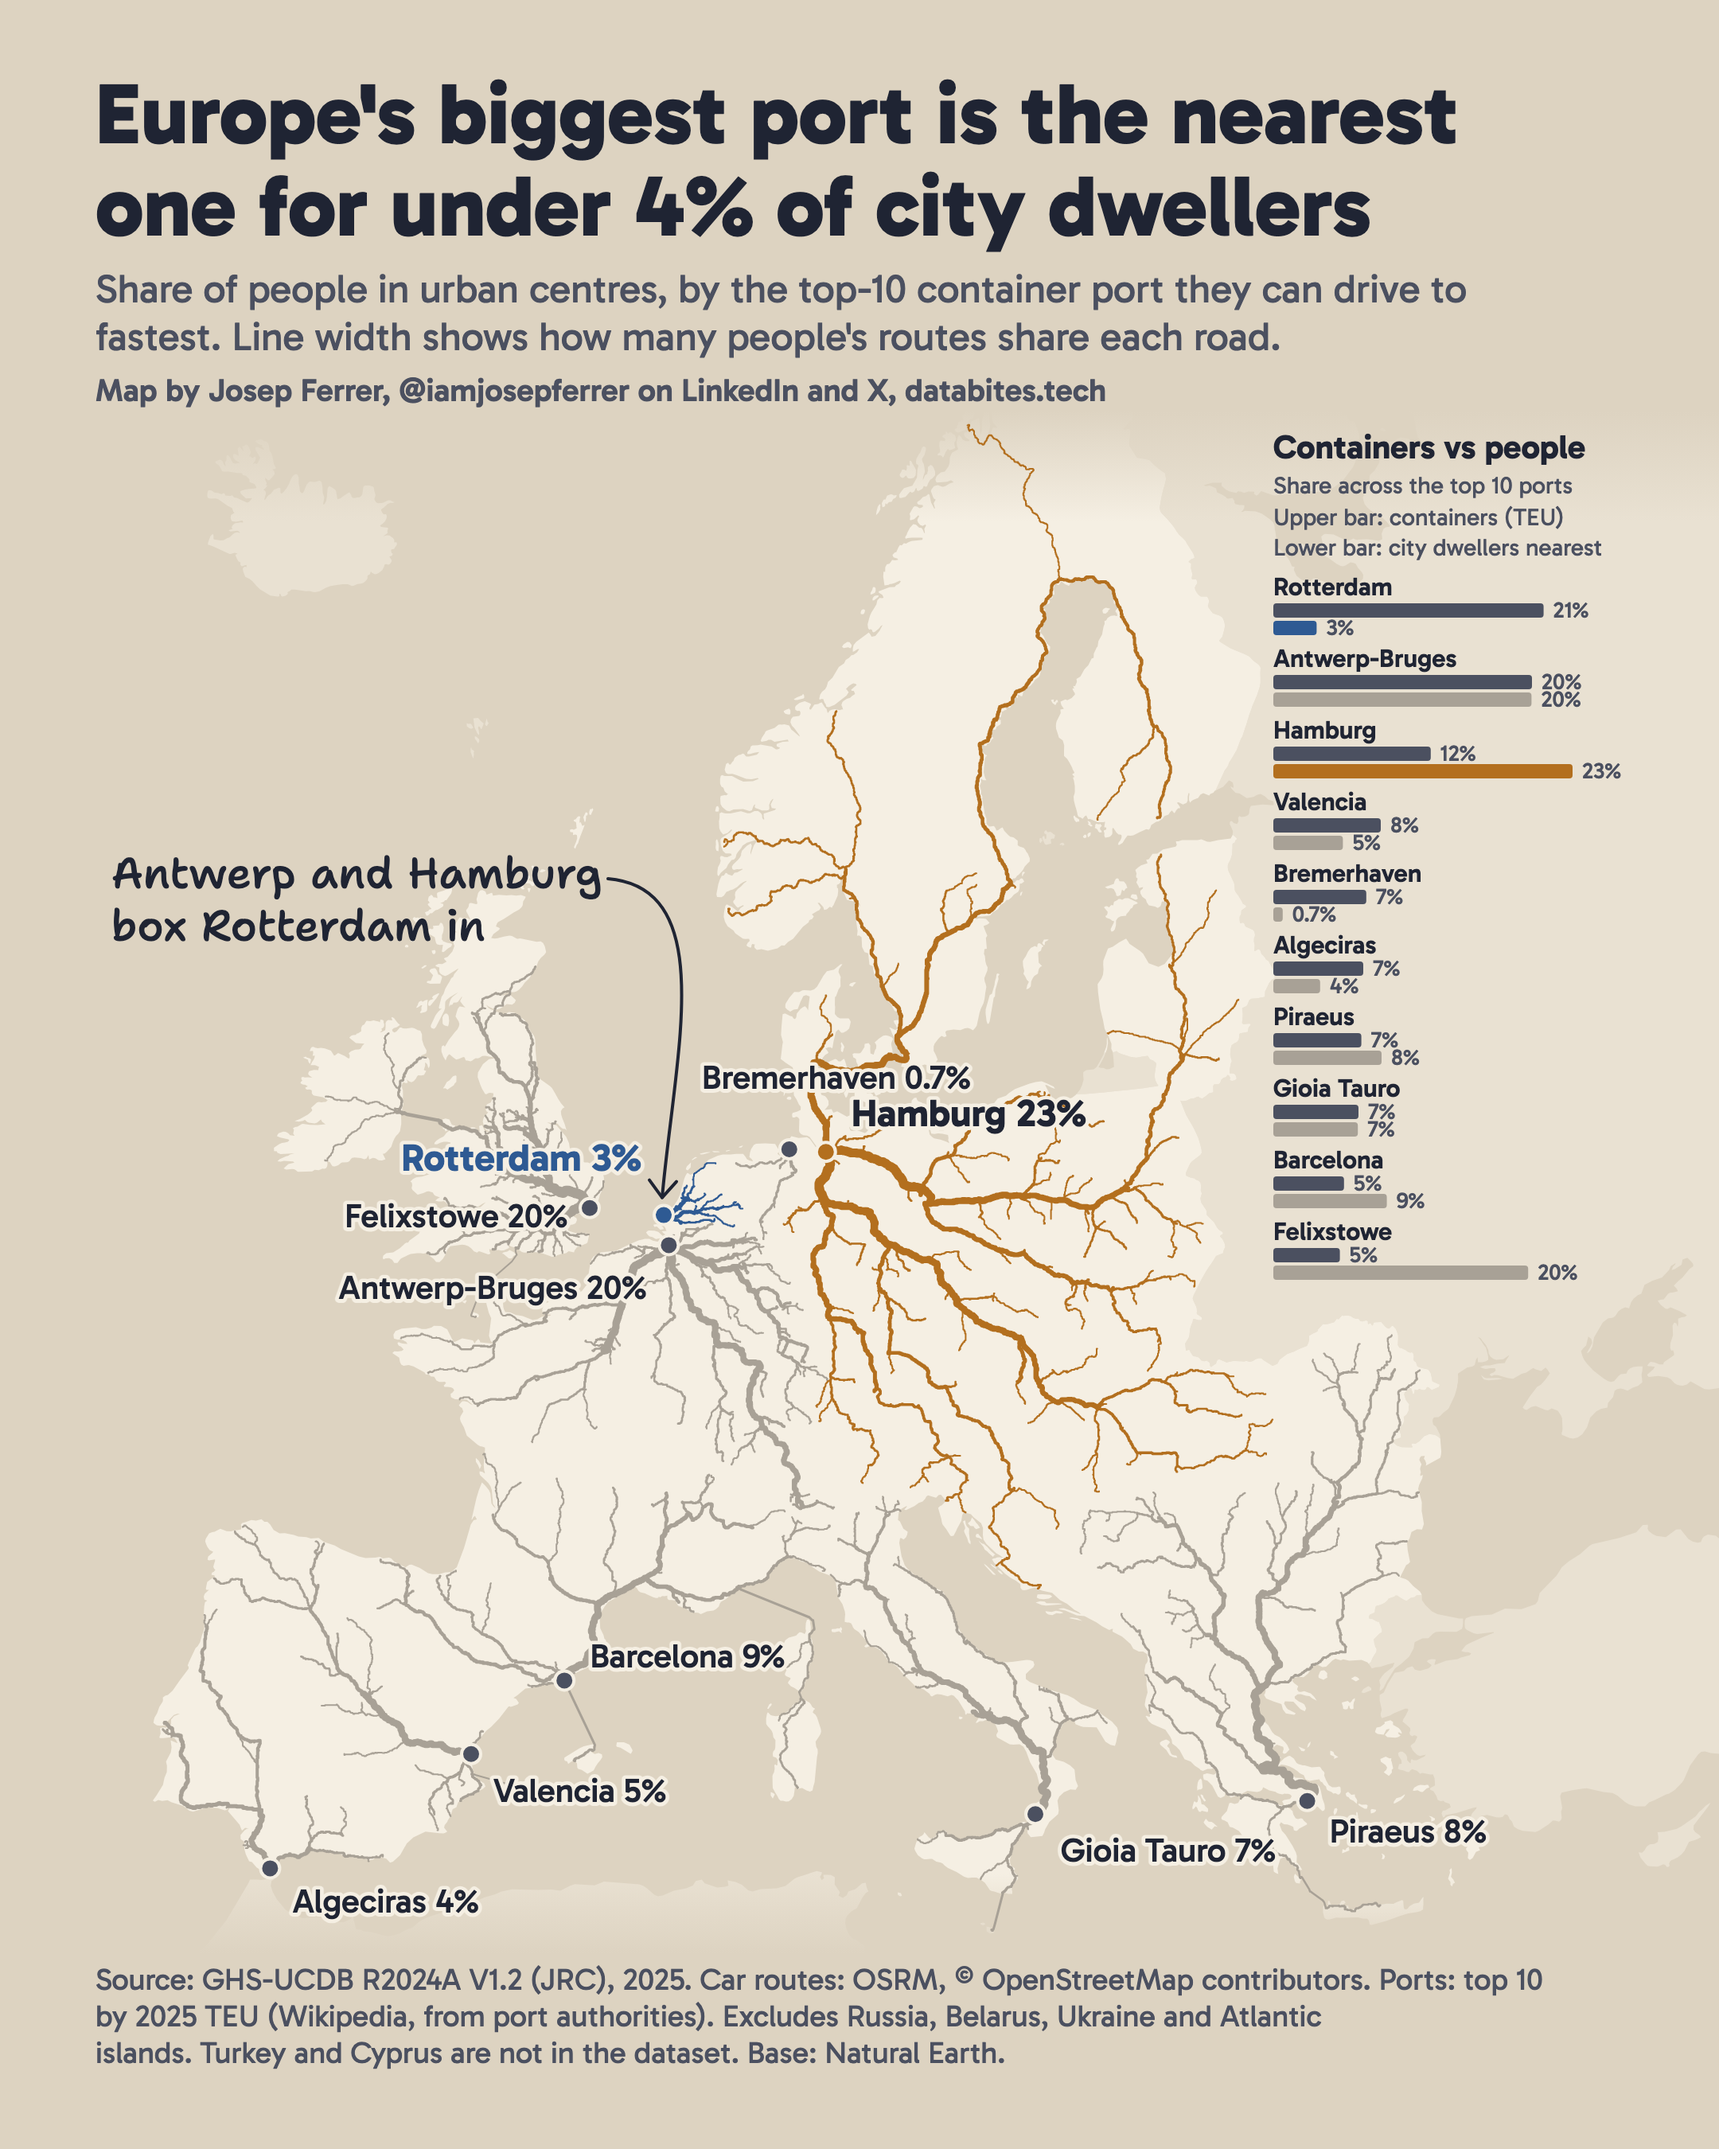
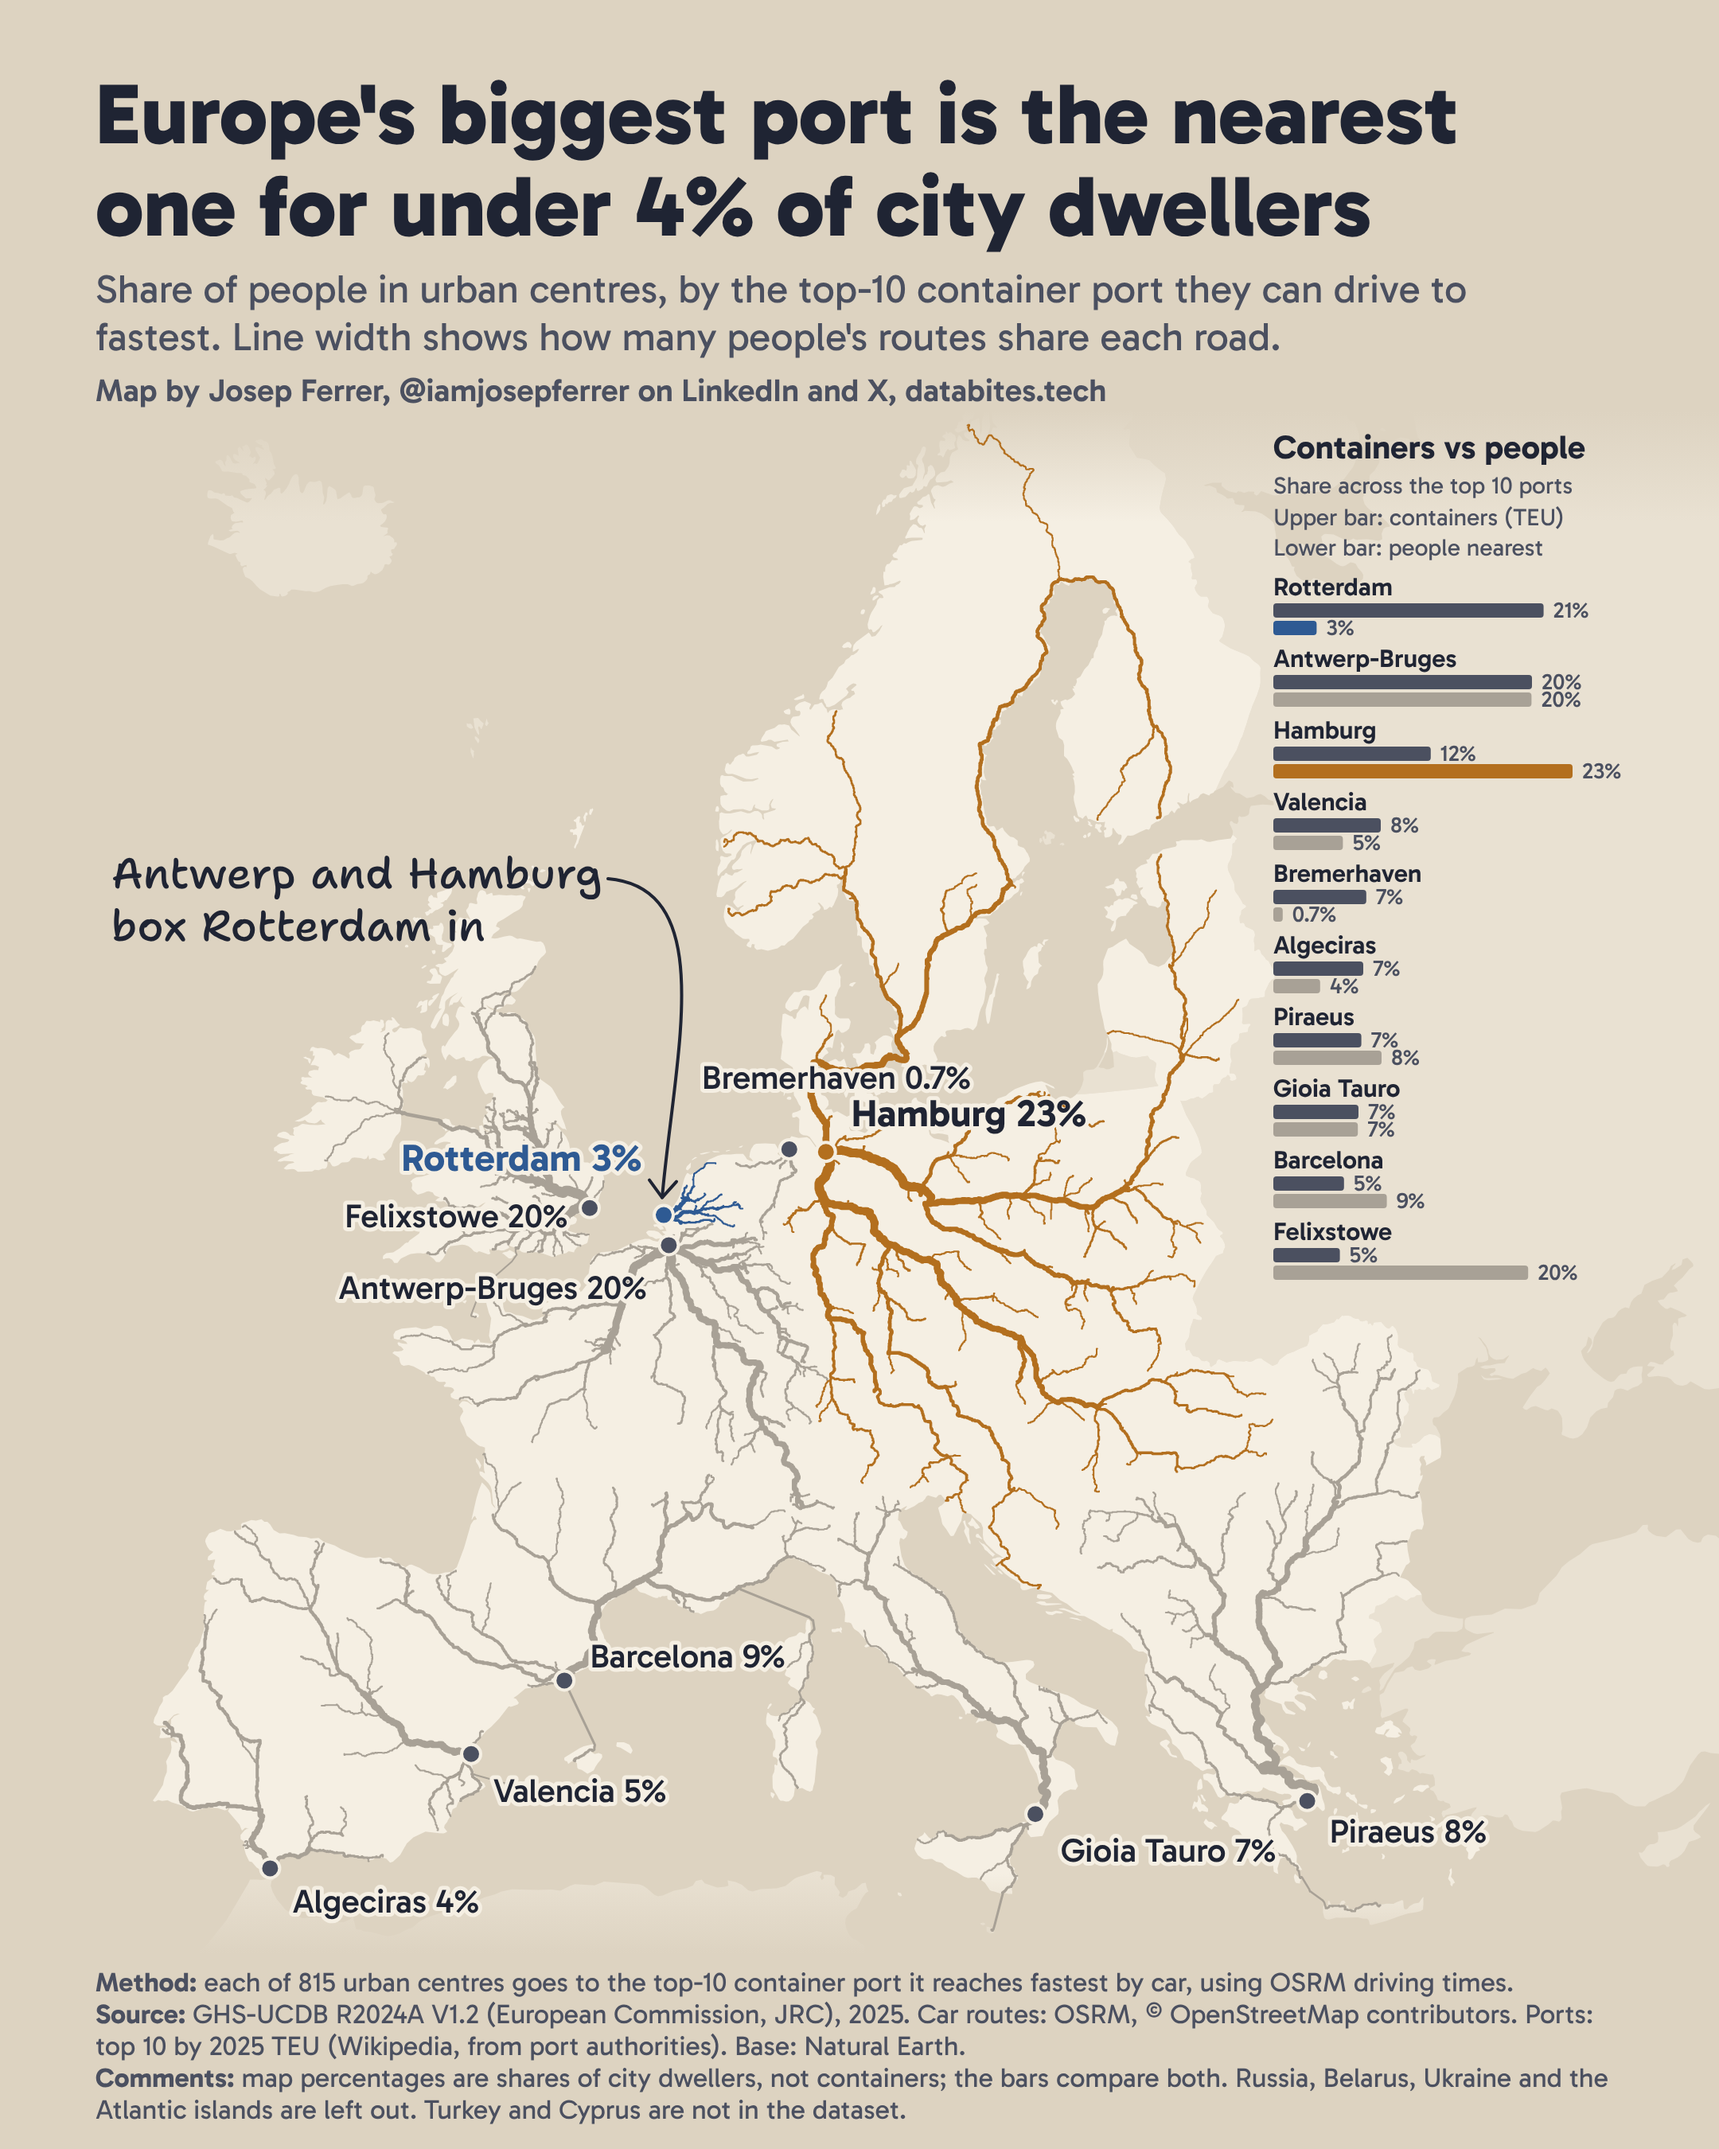
Days 1-3: method, source and comments footers; current style

Changed region(s): [[0.062, 0.9022, 0.8995, 0.9956], [0.8065, 0.2489, 0.9306, 0.28], [0.4963, 0.4978, 0.5273, 0.5289]]

diff --git a/2026/day02_lines/day02_lines.py b/2026/day02_lines/day02_lines.py
@@ -17,7 +17,7 @@ from shapely.prepared import prep
 HERE = Path(__file__).resolve().parent
 sys.path.insert(0, str(HERE.parent / "common"))
 
-from style import C, Frame, byline, countries, fade_defs, land_paths, load_urban_centres, page, save_png, text  # noqa: E402
+from style import C, Frame, byline, countries, fade_defs, footer, land_paths, load_urban_centres, page, save_png, text  # noqa: E402
 
 CACHE = HERE / "cache"
 ROUTES = CACHE / "routes"
@@ -232,7 +232,7 @@ def pct(value):
 svg.append(text(CHART_X, 288, "Containers vs people", 21, 700))
 svg.append(text(CHART_X, 310, "Share across the top 10 ports", 15, 400, C["ink2"]))
 svg.append(text(CHART_X, 330, "Upper bar: containers (TEU)", 15, 400, C["ink2"]))
-svg.append(text(CHART_X, 349, "Lower bar: city dwellers nearest", 15, 400, C["ink2"]))
+svg.append(text(CHART_X, 349, "Lower bar: people nearest", 15, 400, C["ink2"]))
 for row, port_row in enumerate(ports.itertuples()):
     y = CHART_TOP + 22 + row * ROW_H
     svg.append(text(CHART_X, y, port_row.port, 16, 600))
@@ -264,10 +264,13 @@ x1, y1 = rx - 1, ry - 11
 svg.append(f'<path d="M{x0} {y0} C {x0 + 70} {y0 + 6}, {x1 + 8} {y1 - 90}, {x1:.1f} {y1:.1f}" fill="none" stroke="{C["ink"]}" stroke-width="2" stroke-linecap="round"/>')
 svg.append(f'<path d="M{x1 - 8:.1f} {y1 - 11:.1f} L{x1:.1f} {y1:.1f} L{x1 + 9:.1f} {y1 - 10:.1f}" fill="none" stroke="{C["ink"]}" stroke-width="2" stroke-linecap="round" stroke-linejoin="round"/>')
 
-# Source
-svg.append(text(60, 1250, "Source: GHS-UCDB R2024A V1.2 (JRC), 2025. Car routes: OSRM, © OpenStreetMap contributors. Ports: top 10", 19, 400, C["muted"]))
-svg.append(text(60, 1273, "by 2025 TEU (Wikipedia, from port authorities). Excludes Russia, Belarus, Ukraine and Atlantic", 19, 400, C["muted"]))
-svg.append(text(60, 1296, "islands. Turkey and Cyprus are not in the dataset. Base: Natural Earth.", 19, 400, C["muted"]))
+# Footer: method, source and comments
+FOOTER = [
+    ("Method:", f"each of {len(cities)} urban centres goes to the top-10 container port it reaches fastest by car, using OSRM driving times."),
+    ("Source:", "GHS-UCDB R2024A V1.2 (European Commission, JRC), 2025. Car routes: OSRM, ©\u00a0OpenStreetMap contributors. Ports: top 10 by 2025 TEU (Wikipedia, from port authorities). Base: Natural Earth."),
+    ("Comments:", "map percentages are shares of city dwellers, not containers; the bars compare both. Russia, Belarus, Ukraine and the Atlantic islands are left out. Turkey and Cyprus are not in the dataset."),
+]
+svg += footer(FOOTER, x=60, y=1251, width=960, size=17, line_height=20)
 
 save_png(page("".join(svg)), HERE / "day02_lines.png")
 cities[["name", "cnt", "pop", "lon", "lat", "port", "hours", "km"]].round(

diff --git a/2026/day01_points/day01_points.py b/2026/day01_points/day01_points.py
@@ -7,7 +7,7 @@ sys.path.insert(0, str(HERE.parent / "common"))
 
 import pandas as pd  # noqa: E402
 
-from style import C, Frame, byline, fade_defs, land_paths, load_urban_centres, page, save_png, text  # noqa: E402
+from style import C, Frame, byline, fade_defs, footer, land_paths, load_urban_centres, page, save_png, text  # noqa: E402
 
 LAND_WITH_DATA = {
     "United Kingdom", "Ireland", "France", "Spain", "Portugal", "Germany", "Netherlands",
@@ -124,10 +124,13 @@ x1, y1 = paris.px + 1, paris.py - radius(paris["pop"]) - 4
 svg.append(f'<path d="M{x0} {y0} C {x0} {y0 + 160}, {x1 + 6} {y1 - 110}, {x1:.1f} {y1:.1f}" fill="none" stroke="{C["ink"]}" stroke-width="2" stroke-linecap="round"/>')
 svg.append(f'<path d="M{x1 - 7:.1f} {y1 - 11:.1f} L{x1:.1f} {y1:.1f} L{x1 + 7:.1f} {y1 - 11:.1f}" fill="none" stroke="{C["ink"]}" stroke-width="2" stroke-linecap="round" stroke-linejoin="round"/>')
 
-# Source
-svg.append(text(60, 1250, "Source: GHS-UCDB R2024A V1.2 and GHS-POP R2023A (European Commission, JRC), 2025 estimates.", 19, 400, C["muted"]))
-svg.append(text(60, 1273, "Urban centres have 50,000+ people. Europe here means west of 60°E, without Turkey or Cyprus. The Canaries,", 19, 400, C["muted"]))
-svg.append(text(60, 1296, "Madeira and Russia's outer edges are counted but off the map. Base: Natural Earth.", 19, 400, C["muted"]))
+# Footer: method, source and comments
+FOOTER = [
+    ("Method:", f"rank Europe's {len(cities):,} urban centres by population and add them up from the top: the first {n_top} hold half of their people. An urban centre is a dense area of 50,000+ people, whatever the municipal borders."),
+    ("Source:", "GHS-UCDB R2024A V1.2 and GHS-POP R2023A (European Commission, JRC), 2025 estimates. Base: Natural Earth."),
+    ("Comments:", "the bar compares with all of Europe's roughly 700 million people. Europe means west of 60°E, without Turkey or Cyprus, which are not in the dataset. The Canaries, Madeira and Russia's outer edges are counted but off the map."),
+]
+svg += footer(FOOTER, x=60, y=1251, width=960, size=17, line_height=20)
 
 save_png(page("".join(svg)), HERE / "day01_points.png")
 cities[["rank", "name", "cnt", "pop", "lon", "lat", "cum_share", "top"]].to_csv(HERE / "results.csv", index=False)

diff --git a/2026/day03_polygons/day03_polygons.py b/2026/day03_polygons/day03_polygons.py
@@ -10,35 +10,8 @@ import requests
 HERE = Path(__file__).resolve().parent
 sys.path.insert(0, str(HERE.parent / "common"))
 
-from style import C, DATA_DIR, FONT_DIR, FONT_URLS, Frame, _download, byline, countries, fade_defs, geom_path, page, save_png, text  # noqa: E402
-from PIL import ImageFont  # noqa: E402
+from style import C, DATA_DIR, Frame, byline, countries, fade_defs, footer, geom_path, page, save_png, text  # noqa: E402
 
-
-def footer(items, x, y, width, size, line_height):
-    """Footer notes: a bold label, then text wrapped to the given width."""
-    for name, url in FONT_URLS.items():
-        _download(url, FONT_DIR / name)
-    regular = ImageFont.truetype(str(FONT_DIR / "Gabarito.ttf"), size)
-    bold = ImageFont.truetype(str(FONT_DIR / "Gabarito.ttf"), size)
-    bold.set_variation_by_axes([700])
-    out = []
-    for label, body in items:
-        room = width - bold.getlength(label + " ")
-        line, lines = "", []
-        for word in body.split(" "):
-            candidate = f"{line} {word}".strip()
-            if regular.getlength(candidate) <= room:
-                line = candidate
-            else:
-                lines.append(line)
-                line, room = word, width
-        lines.append(line)
-        for row, words in enumerate(lines):
-            words = words.replace("&", "&amp;")
-            first = f'<tspan font-weight="700" fill="{C["ink2"]}">{label}</tspan> ' if row == 0 else ""
-            out.append(f'<text x="{x}" y="{y}" font-size="{size}" fill="{C["muted"]}">{first}{words}</text>')
-            y += line_height
-    return out
 
 YEAR = "2025"
 EUROSTAT = "https://ec.europa.eu/eurostat/api/dissemination/statistics/1.0/data"

diff --git a/2026/common/style.py b/2026/common/style.py
@@ -9,6 +9,7 @@ from pathlib import Path
 import geopandas as gpd
 import numpy as np
 import requests
+from PIL import ImageFont
 from playwright.async_api import async_playwright
 from shapely.geometry import box
 
@@ -152,6 +153,33 @@ def fade_defs():
 
 def byline(y):
     return text(60, y, "Map by Josep Ferrer, @iamjosepferrer on LinkedIn and X, databites.tech", 20, 600, C["ink2"])
+
+
+def footer(items, x, y, width, size, line_height):
+    """Footer notes: a bold label, then text wrapped to the given width."""
+    for name, url in FONT_URLS.items():
+        _download(url, FONT_DIR / name)
+    regular = ImageFont.truetype(str(FONT_DIR / "Gabarito.ttf"), size)
+    bold = ImageFont.truetype(str(FONT_DIR / "Gabarito.ttf"), size)
+    bold.set_variation_by_axes([700])
+    out = []
+    for label, body in items:
+        room = width - bold.getlength(label + " ")
+        line, lines = "", []
+        for word in body.split(" "):
+            candidate = f"{line} {word}".strip()
+            if regular.getlength(candidate) <= room:
+                line = candidate
+            else:
+                lines.append(line)
+                line, room = word, width
+        lines.append(line)
+        for row, words in enumerate(lines):
+            words = html.escape(words, quote=False)
+            first = f'<tspan font-weight="700" fill="{C["ink2"]}">{label}</tspan> ' if row == 0 else ""
+            out.append(f'<text x="{x}" y="{y}" font-size="{size}" fill="{C["muted"]}">{first}{words}</text>')
+            y += line_height
+    return out
 
 
 def page(body):
